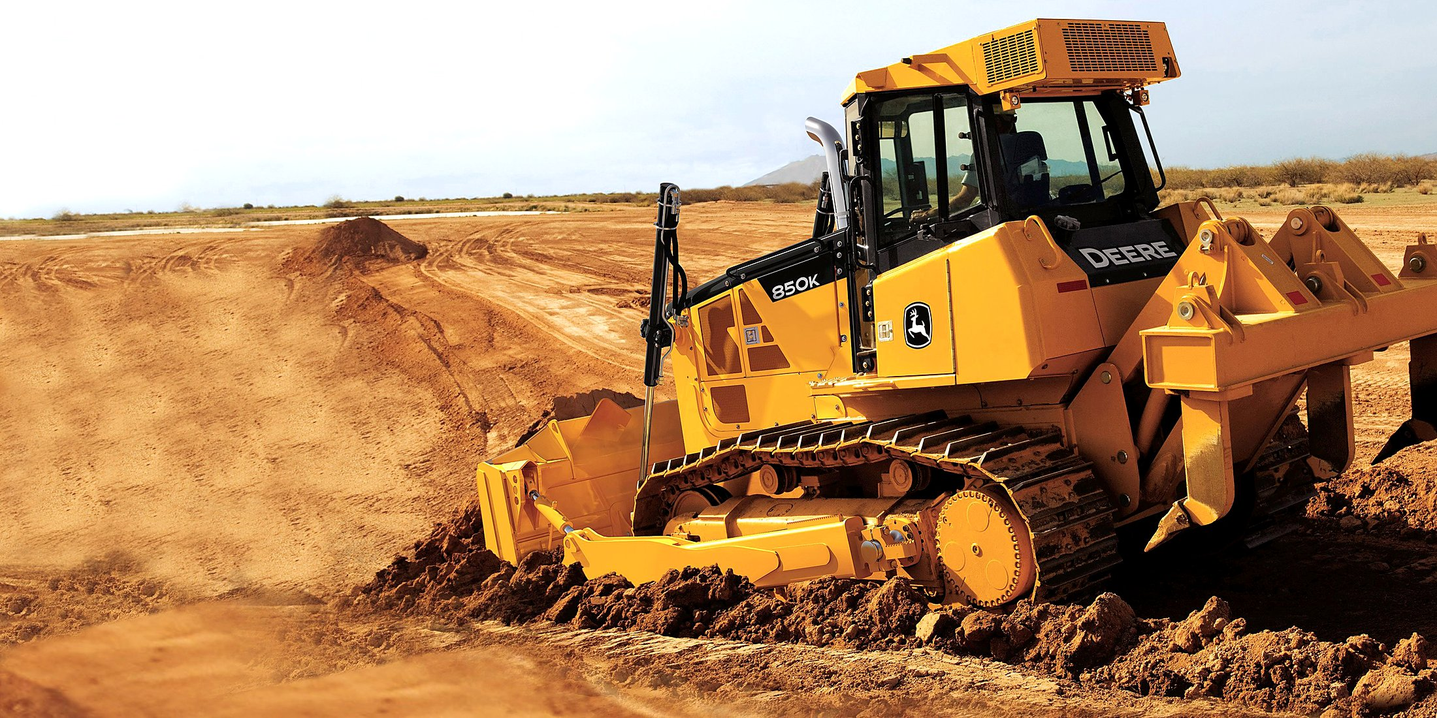
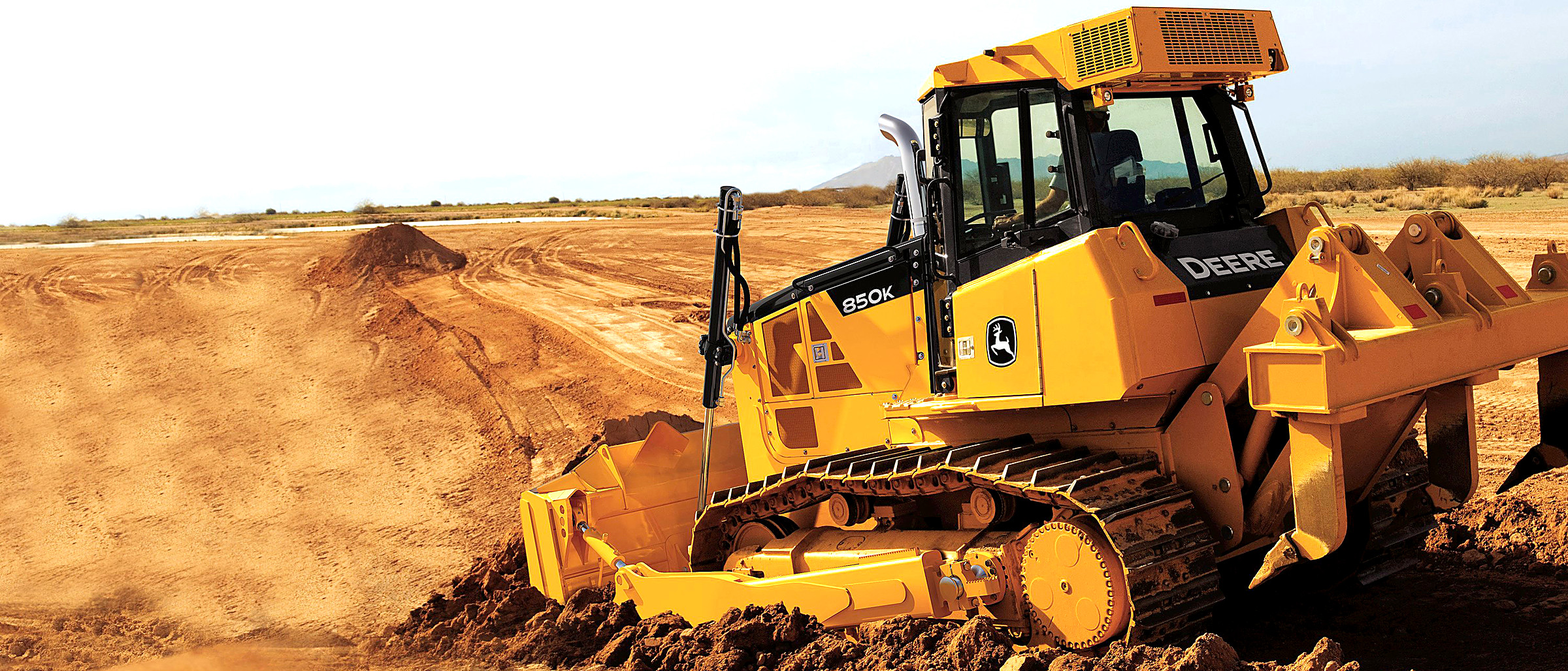
Brighter, wider, higher-resolution hero images
The heavy dark veil over the hero photos is replaced by a light scrim
that only covers the headline area, so the sky, sunset and machinery
read open and bright:

- Hero images re-exported at up to 2400px in a 21:9 crop with more sky,
  brightened, warmed and sharpened (4:4:4 chroma, quality 90)
- Scrim falls off to fully transparent by 78% width; bottom fade reduced
- Slight brightness/saturation lift on the images themselves
- Headline, eyebrow and lead get soft text shadows so they stay crisp
  over the lighter background
- Interior page banners lightened to match

Claude-Session: https://claude.ai/code/session_018g6CXARkaqDcBiWFZef8UK

diff --git a/src/styles/index.css b/src/styles/index.css
@@ -287,13 +287,16 @@ h1, h2, h3, h4 {
 .hero-slide.active { opacity: 1; }
 .hero-slide img { position: absolute; inset: 0; width: 100%; height: 100%; object-fit: cover; }
 
+.hero-slide img { filter: brightness(1.06) saturate(1.04) contrast(1.02); }
+
+/* light scrim: only enough to hold the headline, so the photo stays open */
 .hero-slide::after {
   content: '';
   position: absolute;
   inset: 0;
   background:
-    linear-gradient(80deg, rgba(15, 16, 19, 0.84) 0%, rgba(15, 16, 19, 0.55) 46%, rgba(15, 16, 19, 0.12) 78%),
-    linear-gradient(to top, rgba(15, 16, 19, 0.5), transparent 34%);
+    linear-gradient(84deg, rgba(22, 24, 28, 0.74) 0%, rgba(22, 24, 28, 0.46) 34%, rgba(22, 24, 28, 0.14) 58%, transparent 78%),
+    linear-gradient(to bottom, rgba(22, 24, 28, 0.32), transparent 22%);
 }
 
 .hero-content {
@@ -307,13 +310,22 @@ h1, h2, h3, h4 {
   justify-items: start;
 }
 
-.hero-content .eyebrow { color: var(--accent); }
+.hero-content .eyebrow { color: var(--accent); text-shadow: 0 1px 12px rgba(16, 18, 21, 0.5); }
 
-.hero-content h1 { max-width: 14em; color: #fff; font-size: clamp(2.4rem, 4.8vw, 3.9rem); }
+.hero-content h1 {
+  max-width: 14em;
+  color: #fff;
+  font-size: clamp(2.4rem, 4.8vw, 3.9rem);
+  text-shadow: 0 2px 22px rgba(14, 16, 19, 0.6);
+}
 
 .hero-content h1 em { font-style: normal; color: var(--accent); }
 
-.hero-content .lead { color: rgba(255, 255, 255, 0.86); max-width: 37em; }
+.hero-content .lead {
+  color: rgba(255, 255, 255, 0.94);
+  max-width: 37em;
+  text-shadow: 0 1px 16px rgba(16, 18, 21, 0.5);
+}
 
 .hero-actions { display: flex; flex-wrap: wrap; align-items: center; gap: 1.1rem 1.5rem; margin-top: 0.5rem; }
 
@@ -812,13 +824,13 @@ h1, h2, h3, h4 {
   color: #fff;
 }
 
-.page-hero-bg { position: absolute; inset: 0; width: 100%; height: 100%; object-fit: cover; }
+.page-hero-bg { position: absolute; inset: 0; width: 100%; height: 100%; object-fit: cover; filter: brightness(1.05) saturate(1.03); }
 
 .page-hero::after {
   content: '';
   position: absolute;
   inset: 0;
-  background: linear-gradient(to top, rgba(15, 16, 19, 0.82), rgba(15, 16, 19, 0.32) 62%, rgba(15, 16, 19, 0.25));
+  background: linear-gradient(to top, rgba(24, 26, 30, 0.68), rgba(24, 26, 30, 0.2) 58%, rgba(24, 26, 30, 0.08));
 }
 
 .page-hero-inner {
@@ -835,7 +847,7 @@ h1, h2, h3, h4 {
 
 .page-hero-inner .eyebrow { color: var(--accent); }
 
-.page-hero-inner h1 { color: #fff; max-width: 16em; }
+.page-hero-inner h1 { color: #fff; max-width: 16em; text-shadow: 0 2px 20px rgba(16, 18, 21, 0.5); }
 
 .page-hero-inner .lead { color: rgba(255, 255, 255, 0.85); }
 
